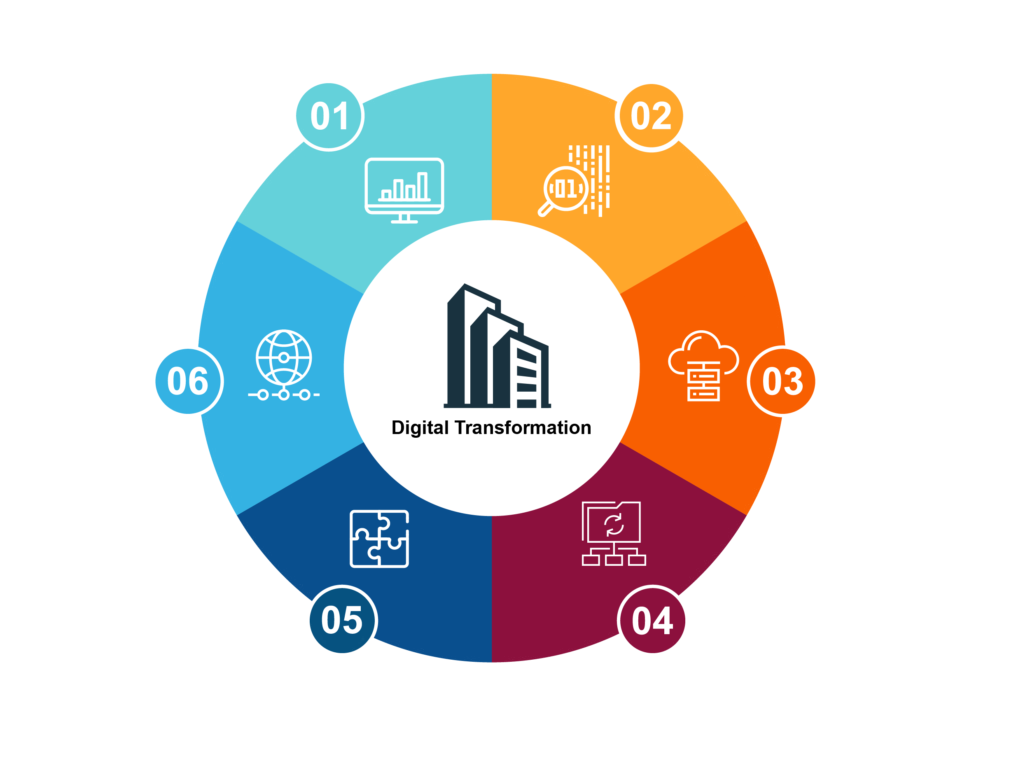
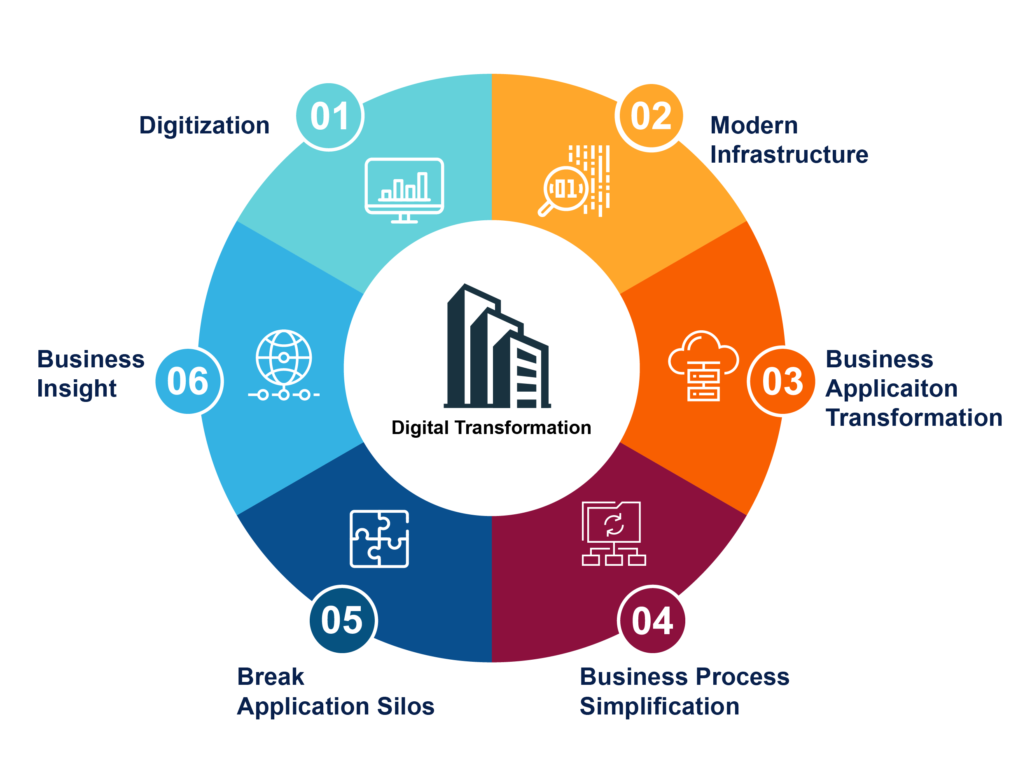
Fix wheel diagram's missing labels, remove About section glow
- Restore the Digital Transformation wheel image to the original file
  (with all six labels) - a prior swap had overwritten it with a
  background-removed variant that never had the labels.
- Fix the labels disappearing on the live page despite the file being
  correct: Next's image optimizer re-encodes this image to AVIF for
  browsers that accept it (next.config.js), and that specific AVIF
  encode drops every label around the ring while keeping the circle/
  icons/numbers intact - confirmed by decoding the actual AVIF bytes
  the optimizer serves. Bypass the optimizer for this image
  (unoptimized) rather than work around a bug in its AVIF encoder.
- Remove the radial gold glow behind the About section's two columns
  per feedback, along with the position/z-index rules that existed
  only to stack content above it.

diff --git a/app/page.module.css b/app/page.module.css
@@ -566,7 +566,6 @@
 }
 
 .aboutInner {
-  position: relative;
   display: grid;
   /* Was 48fr 52fr - the wheel diagram reads small/underweight at that
      size (it's centered artwork with its own internal whitespace, unlike
@@ -580,28 +579,7 @@
   padding-inline: 32px;
 }
 
-/* Soft background glow spanning the gap between the two columns - without
-   it, the text and the image read as two disconnected blocks sitting on
-   plain white with nothing tying them together. Sits behind both columns
-   (z-index 0 vs their 1) and is clipped by .about's own overflow: clip,
-   so it's safe to size larger than the viewport on narrow screens. */
-.aboutInner::before {
-  content: "";
-  position: absolute;
-  z-index: 0;
-  top: 50%;
-  left: 44%;
-  width: 760px;
-  height: 760px;
-  transform: translate(-50%, -50%);
-  border-radius: 50%;
-  background: radial-gradient(circle, color-mix(in srgb, var(--color-primary) 16%, transparent) 0%, transparent 70%);
-  pointer-events: none;
-}
-
 .aboutText {
-  position: relative;
-  z-index: 1;
   animation: as-fade-up 700ms ease both;
   animation-timeline: view();
   animation-range: entry 0% entry 55%;
@@ -711,47 +689,38 @@
 
 .aboutMedia {
   position: relative;
-  z-index: 1;
   animation: as-fade-up 700ms ease 150ms both;
   animation-timeline: view();
   animation-range: entry 0% entry 55%;
 }
 
-/* No border-radius/overflow/border/shadow/background here - those suited
-   the previous photo, which needed a "card" frame to look intentional.
-   This is a transparent-background diagram (the whole point of removing
-   its background), so it just floats directly on the section instead of
-   being boxed in - a visible rectangular border/fill around an irregular
-   transparent shape would look like a mistake, not a frame. */
+/* Deliberately simple: a flex box that centers a naturally-sized image,
+   not Next's `fill` + object-fit + absolute-positioned inset wrapper (the
+   previous approach here) - swapped after that combination reproducibly
+   showed the wheel's ring intact but its outer text labels missing on the
+   live page, while the exact same file/URL opened directly always showed
+   the complete image with every label. Root cause not conclusively
+   isolated (forcing object-fit: contain !important didn't fix it either,
+   which rules out a simple cascade collision) - rather than keep
+   debugging that specific combination blind, this sidesteps it with a
+   plainer, harder-to-get-wrong pattern: padding for the margin the
+   floating stat cards need to clear the wheel's labels, and an
+   intrinsically-sized <Image width height> that just scales down to fit,
+   no object-fit/fill/absolute-positioning involved at all. */
 .aboutImageWrap {
-  position: relative;
+  display: flex;
+  align-items: center;
+  justify-content: center;
   width: 100%;
   aspect-ratio: 4 / 3;
+  padding: 20px;
+  box-sizing: border-box;
 }
 
-/* Shrinks the diagram within its frame (plain padding on .aboutImageWrap
-   wouldn't do this - an absolutely positioned `fill` image sizes itself
-   to the padding box of its nearest positioned ancestor, so padding on
-   that ancestor doesn't create a visible gap). This inner box is that
-   "nearest positioned ancestor" instead, deliberately smaller than the
-   outer frame, so there's real empty margin at the edges for the
-   floating stat cards below to sit in without landing on the wheel's own
-   outward-pointing labels (which otherwise reach close to the image's
-   actual edges on all sides). */
-.aboutImageInset {
-  position: absolute;
-  /* Was 48px - the earlier screenshot showed more clearance than the
-     floating cards actually needed to clear the wheel's labels, at the
-     cost of making the diagram look smaller than it should. */
-  inset: 20px;
-}
-
-/* contain, not cover: this is a diagram (Digital Transformation wheel),
-   not a photo - cropping it would cut off labels around the ring. The
-   source image (1030x775) is close enough to this frame's 4:3 ratio that
-   there's minimal letterboxing anyway. */
 .aboutImage {
-  object-fit: contain;
+  width: 100%;
+  height: auto;
+  max-height: 100%;
 }
 
 .floatCard {

diff --git a/app/page.jsx b/app/page.jsx
@@ -182,15 +182,23 @@ export default function Home() {
 
           <div className={styles.aboutMedia}>
             <div className={styles.aboutImageWrap}>
-              <div className={styles.aboutImageInset}>
-                <Image
-                  src="/assets/image2/digital-transformation-wheel.png"
-                  alt="Digital Transformation wheel: Digitization, Modern Infrastructure, Business Application Transformation, Business Process Simplification, Break Application Silos, and Business Insight"
-                  fill
-                  sizes="(max-width: 1024px) 90vw, 45vw"
-                  className={styles.aboutImage}
-                />
-              </div>
+              {/* unoptimized: Next's image optimizer re-encodes this to
+                  AVIF/WebP for browsers that accept it (per next.config.js),
+                  and that specific re-encode drops every text label around
+                  the ring while leaving the circle/icons/numbers intact -
+                  confirmed by decoding the actual AVIF variant it serves.
+                  Root cause sits in the optimizer's AVIF encoding of this
+                  image's semi-transparent regions, not in this app's code -
+                  bypassing optimization serves the original file byte-for-
+                  byte, which has always rendered correctly. */}
+              <Image
+                src="/assets/image2/digital-transformation-wheel.png"
+                alt="Digital Transformation wheel: Digitization, Modern Infrastructure, Business Application Transformation, Business Process Simplification, Break Application Silos, and Business Insight"
+                width={1030}
+                height={775}
+                unoptimized
+                className={styles.aboutImage}
+              />
             </div>
 
             {ABOUT_FLOAT_STATS.map((stat) => {
